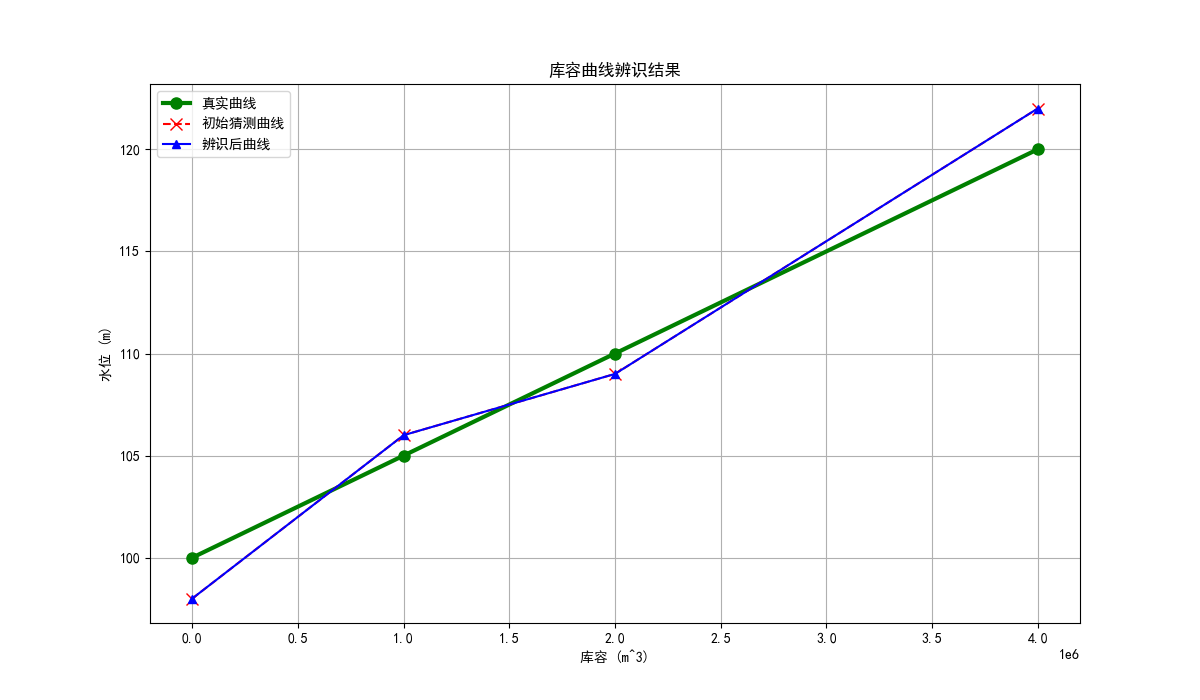
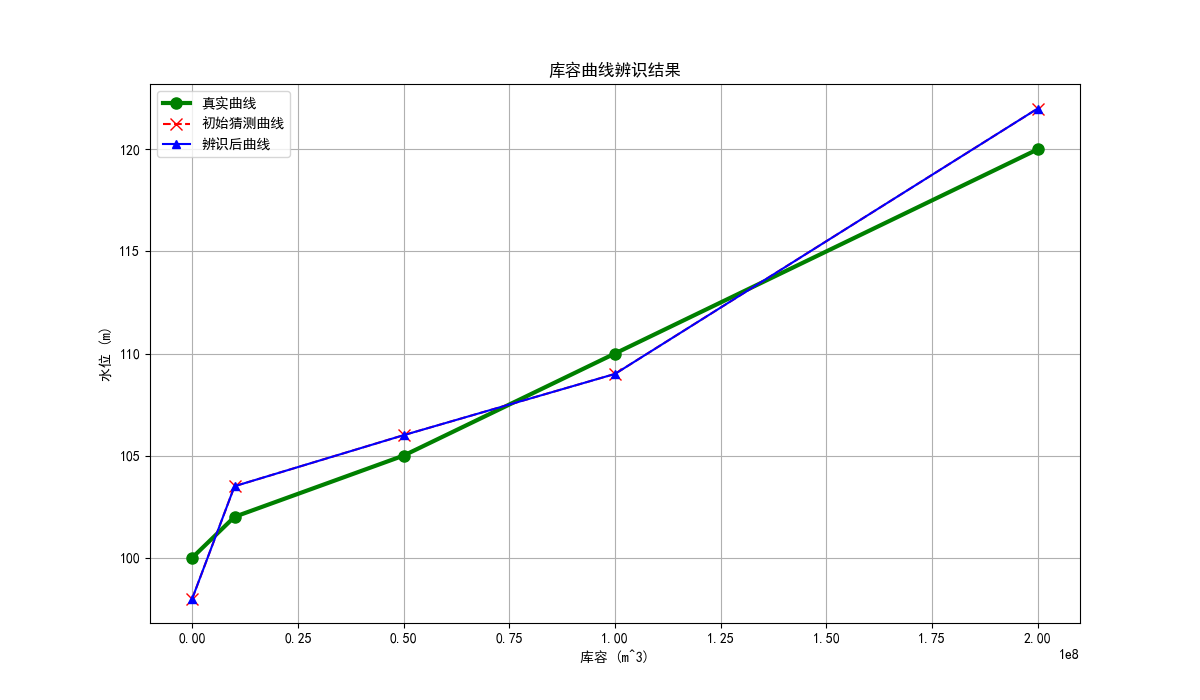
fix-参数辨识bug

diff --git a/core_lib/core_engine/testing/simulation_harness.py b/core_lib/core_engine/testing/simulation_harness.py
@@ -139,6 +139,50 @@ class SimulationHarness:
         self.is_running = True
         print("Simulation harness build complete and ready to run.")
 
+    def _get_reference_head(self, component_id: str, direction: str) -> float:
+        """
+        为未连接的组件查找合理的参考head值。
+        通用解决方案：查找同类型已连接组件的head值作为参考。
+        
+        Args:
+            component_id: 组件ID
+            direction: 'upstream' 或 'downstream'
+            
+        Returns:
+            参考head值
+        """
+        component = self.components[component_id]
+        component_type = component.__class__.__name__
+        
+        # 查找同类型的已连接组件作为参考
+        for other_id, other_component in self.components.items():
+            if (other_component.__class__.__name__ == component_type and 
+                other_id != component_id):
+                
+                if direction == 'upstream':
+                    # 查找有上游连接的同类型组件
+                    if self.inverse_topology.get(other_id):
+                        up_id = self.inverse_topology[other_id][self.FIRST_COMPONENT_INDEX]
+                        up_state = self.components[up_id].get_state()
+                        if up_state and 'water_level' in up_state:
+                            return up_state['water_level']
+                elif direction == 'downstream':
+                    # 查找有下游连接的同类型组件
+                    if self.topology.get(other_id):
+                        down_id = self.topology[other_id][self.FIRST_COMPONENT_INDEX]
+                        down_state = self.components[down_id].get_state()
+                        if down_state and 'water_level' in down_state:
+                            return down_state['water_level']
+        
+        # 如果找不到同类型参考，查找任意有water_level的组件
+        for other_id, other_component in self.components.items():
+            state = other_component.get_state()
+            if state and 'water_level' in state:
+                return state['water_level']
+        
+        # 最后备选：返回默认值
+        return self.DEFAULT_WATER_LEVEL
+
     def pause(self):
         """Pauses the simulation."""
         self._is_paused.set()
@@ -315,6 +359,7 @@ class SimulationHarness:
             # 否则，边界组件（如上游水库）保持其原有入流设置
 
             # 为所有组件设置water head信息（无论是否stateful）
+            # 通用处理：确保所有需要head信息的组件都能获得合理的值
             if self.inverse_topology.get(component_id):
                 up_id = self.inverse_topology[component_id][self.FIRST_COMPONENT_INDEX]
                 up_state = self.components[up_id].get_state()
@@ -326,12 +371,12 @@ class SimulationHarness:
                     up_up_id = self.inverse_topology[up_id][self.FIRST_COMPONENT_INDEX]
                     up_up_state = self.components[up_up_id].get_state()
                     action['upstream_head'] = up_up_state.get('water_level', self.DEFAULT_WATER_LEVEL) if up_up_state else self.DEFAULT_WATER_LEVEL
-                    if component_id == 'Gate_1':  # 调试信息
-                        print(f"Gate_1上游查找: {up_id}(无water_level) -> {up_up_id}(water_level={action['upstream_head']:.3f}m)")
                 else:
                     action['upstream_head'] = self.DEFAULT_WATER_LEVEL
-                    if component_id == 'Gate_1':  # 调试信息
-                        print(f"Gate_1上游查找: {up_id}(无water_level，且无上级) -> 使用默认值{self.DEFAULT_WATER_LEVEL}m")
+            else:
+                # 通用解决方案：为未连接的组件查找同类型的连接组件作为参考
+                action['upstream_head'] = self._get_reference_head(component_id, 'upstream')
+                
             if self.topology.get(component_id):
                 down_id = self.topology[component_id][self.FIRST_COMPONENT_INDEX]
                 down_state = self.components[down_id].get_state()
@@ -343,12 +388,11 @@ class SimulationHarness:
                     down_down_id = self.topology[down_id][self.FIRST_COMPONENT_INDEX]
                     down_down_state = self.components[down_down_id].get_state()
                     action['downstream_head'] = down_down_state.get('water_level', self.DEFAULT_WATER_LEVEL) if down_down_state else self.DEFAULT_WATER_LEVEL
-                    if component_id == 'Pipe_1':  # 调试信息
-                        print(f"Pipe_1下游查找: {down_id}(无water_level) -> {down_down_id}(water_level={action['downstream_head']:.3f}m)")
                 else:
                     action['downstream_head'] = self.DEFAULT_WATER_LEVEL
-                    if component_id == 'Pipe_1':  # 调试信息
-                        print(f"Pipe_1下游查找: {down_id}(无water_level，且无下级) -> 使用默认值{self.DEFAULT_WATER_LEVEL}m")
+            else:
+                # 通用解决方案：为未连接的组件查找同类型的连接组件作为参考
+                action['downstream_head'] = self._get_reference_head(component_id, 'downstream')
 
             # 修复：选择性启用stateful组件处理
             # 仅对边界组件（如上游水库）启用，以避免中间组件的反馈循环

diff --git a/core_lib/physical_objects/reservoir.py b/core_lib/physical_objects/reservoir.py
@@ -323,7 +323,7 @@ class Reservoir(PhysicalObjectInterface):
     def is_stateful(self) -> bool:
         return True
 
-    def identify_parameters(self, data: Dict[str, np.ndarray], method: str = 'offline') -> Parameters:
+    def identify_parameters(self, data: Dict[str, np.ndarray], method: str = 'offline', time_step: Optional[float] = None) -> Parameters:
         """
         使用历史数据辨识库容曲线参数。
 
@@ -332,7 +332,9 @@ class Reservoir(PhysicalObjectInterface):
                   - 'inflows': 总入流的时间序列数据。
                   - 'outflows': 总出流的时间序列数据。
                   - 'levels': 观测水位的时间序列数据。
+                  - 'time_step' (可选): 数据时间步长，单位为秒。
             method: 辨识方法（目前仅支持 'offline'）。
+            time_step: 数据时间步长（秒），如果为None，将尝试从data中获取或使用默认值。
 
         Returns:
             一个包含新辨识出的 'storage_curve' 的字典。
@@ -347,9 +349,21 @@ class Reservoir(PhysicalObjectInterface):
         outflows = data['outflows']
         observed_levels = data['levels']
 
-        # 假设time_step是恒定的，从数据点数量推断（例如，一天的数据）。
-        # 理想情况下，这个值应该由数据提供。这里我们假设步长是每小时。
-        time_step = 3600 # 秒
+        # 获取时间步长：优先级顺序为 time_step参数 > data字典中的time_step > 默认值
+        if time_step is not None:
+            dt = time_step
+        elif 'time_step' in data:
+            dt = float(data['time_step'])
+        else:
+            # 默认值：根据数据特征推断
+            # 如果数据点少于100个，假设为小时级数据；否则假设为分钟级数据
+            data_length = len(inflows)
+            if data_length < 100:
+                dt = 3600.0  # 1小时（秒）
+                print(f"警告: 未提供时间步长，根据数据长度 {data_length} 推断为小时级数据，使用 {dt} 秒")
+            else:
+                dt = 60.0    # 1分钟（秒）
+                print(f"警告: 未提供时间步长，根据数据长度 {data_length} 推断为分钟级数据，使用 {dt} 秒")
 
         def _simulation_error(level_params: np.ndarray) -> float:
             """优化器的目标函数。"""
@@ -367,7 +381,7 @@ class Reservoir(PhysicalObjectInterface):
             simulated_volumes[0] = initial_volume
 
             for i in range(1, len(inflows)):
-                delta_v = (inflows[i-1] - outflows[i-1]) * time_step
+                delta_v = (inflows[i-1] - outflows[i-1]) * dt
                 simulated_volumes[i] = simulated_volumes[i-1] + delta_v
 
             # 使用候选曲线将模拟库容转换为水位

diff --git a/core_lib/identification/identification_agent.py b/core_lib/identification/identification_agent.py
@@ -24,6 +24,7 @@ class ParameterIdentificationAgent(Agent):
                 - identification_data_map: 一个字典，将模型的 identify_parameters 方法所需的
                                            键（例如 'rainfall', 'observed_runoff'）映射到
                                            它们对应的主题。
+                - simulation_time_step: 仿真时间步长（秒），用于传递给辨识算法。
         """
         super().__init__(agent_id)
         self.target_model = target_model
@@ -32,6 +33,7 @@ class ParameterIdentificationAgent(Agent):
         # 配置
         self.id_interval = kwargs.get("identification_interval", 100)
         self.data_map = kwargs["identification_data_map"]
+        self.simulation_time_step = kwargs.get("simulation_time_step", None)  # 仿真时间步长
 
         # 内部状态
         self.data_history: Dict[str, List[float]] = {key: [] for key in self.data_map.keys()}
@@ -55,6 +57,8 @@ class ParameterIdentificationAgent(Agent):
             # 仅对一个数据流递增计数器，以确保同步
             if model_key == list(self.data_map.keys())[0]:
                 self.new_data_count += 1
+            # 添加调试信息，显示数据收集情况
+            print(f"  [{self.agent_id}] 收集数据: {model_key}={value:.3f}, 总数据点数: {self.new_data_count}")
 
     def run(self, current_time: float):
         """
@@ -76,8 +80,22 @@ class ParameterIdentificationAgent(Agent):
             # 将所有数据流截断到最小长度
             data_for_model = {key: np.array(values[:min_len]) for key, values in self.data_history.items()}
 
+            # 准备传递给辨识算法的数据，包括时间步长信息
+            # 如果有配置的时间步长，则添加到数据中
+            if self.simulation_time_step is not None:
+                data_for_model['time_step'] = self.simulation_time_step
+
             # 触发辨识并获取结果
-            new_params = self.target_model.identify_parameters(data_for_model)
+            # 传递时间步长参数（如果可用）
+            if hasattr(self.target_model, 'identify_parameters'):
+                import inspect
+                sig = inspect.signature(self.target_model.identify_parameters)
+                if 'time_step' in sig.parameters:
+                    new_params = self.target_model.identify_parameters(data_for_model, time_step=self.simulation_time_step)
+                else:
+                    new_params = self.target_model.identify_parameters(data_for_model)
+            else:
+                new_params = self.target_model.identify_parameters(data_for_model)
 
             # 发布新参数以供 ModelUpdaterAgent 使用
             if new_params:

diff --git a/examples/identification/01_reservoir_storage_curve/run_identification.py b/examples/identification/01_reservoir_storage_curve/run_identification.py
@@ -3,7 +3,8 @@ from pathlib import Path
 import yaml
 import numpy as np
 
-# 将项目根目录添加到Python路径，以允许从core_lib导入
+# 使用标准导入机制（需要根据项目结构配置PYTHONPATH或使用setuptools开发模式）
+# TODO: 替换为标准包导入方式，避免手动路径操作
 project_root = Path(__file__).resolve().parents[3]
 sys.path.insert(0, str(project_root))
 
@@ -70,11 +71,11 @@ def main():
     scenario_path = Path(__file__).parent
 
     # --- 1. 从YAML文件加载配置 ---
-    with open(scenario_path / 'config.yml', 'r') as f:
+    with open(scenario_path / 'config.yml', 'r', encoding='utf-8') as f:
         config = yaml.safe_load(f)
-    with open(scenario_path / 'components.yml', 'r') as f:
+    with open(scenario_path / 'components.yml', 'r', encoding='utf-8') as f:
         components_config = yaml.safe_load(f)
-    with open(scenario_path / 'agents.yml', 'r') as f:
+    with open(scenario_path / 'agents.yml', 'r', encoding='utf-8') as f:
         agents_config = yaml.safe_load(f)
 
     # --- 2. 手动实例化所有对象 ---
@@ -130,6 +131,10 @@ def main():
     id_agent_conf = agents_config['identification_agent']['parameters'].copy()
     # Remove target_model from config since we pass it explicitly
     id_agent_conf.pop('target_model', None)
+    # 从仿真配置中获取时间步长，确保一致性
+    simulation_time_step = config['simulation'].get('time_step', 3600)
+    id_agent_conf['simulation_time_step'] = simulation_time_step
+    
     identification_agent = ParameterIdentificationAgent(
         agent_id='identification_agent',
         target_model=twin_reservoir,
@@ -154,7 +159,7 @@ def main():
     # --- 4. 初始化并运行仿真平台 ---
     print("\n正在初始化仿真平台...")
     harness = SimulationHarness(config=config['simulation'])
-    harness.message_bus = bus # 确保所有对象共享同一个消息总线
+    harness.message_bus = bus  # 确保所有对象共享同一个消息总线
 
     # 向仿真平台添加组件和智能体
     for comp in components:

diff --git a/core_lib/physical_objects/gate.py b/core_lib/physical_objects/gate.py
@@ -247,6 +247,21 @@ class Gate(PhysicalObjectInterface):
         openings = data['openings']
         obs_flows = data['observed_flows']
 
+        # 验证输入数据的有效性
+        valid_indices = (up_levels > down_levels) & (openings > 0) & (obs_flows >= 0)
+        if not np.any(valid_indices):
+            print(f"警告: 闸门 '{self.name}' 没有有效的辨识数据点（需要上游水位>下游水位且开度>0）。")
+            return {}
+
+        # 使用有效数据点
+        up_levels = up_levels[valid_indices]
+        down_levels = down_levels[valid_indices]
+        openings = openings[valid_indices]
+        obs_flows = obs_flows[valid_indices]
+
+        if len(up_levels) < 5:
+            print(f"警告: 闸门 '{self.name}' 有效数据点太少 ({len(up_levels)} < 5)，可能影响辨识精度。")
+
         def _simulation_error(c_param: np.ndarray) -> float:
             """优化器的目标函数。"""
             C = c_param[0]
@@ -263,11 +278,14 @@ class Gate(PhysicalObjectInterface):
             return rmse
 
         initial_guess = np.array([self._params.get('discharge_coefficient', self.default_discharge_coefficient)])
+        
+        # 使用支持边界约束的优化器
         result = minimize(
             _simulation_error,
             initial_guess,
-            method='Nelder-Mead', # 适用于简单的单变量优化
-            bounds=[(self.identification_bounds_min, self.identification_bounds_max)] # 更合理的C值物理边界：收缩系数0.61×流速系数0.98≈0.6
+            method='L-BFGS-B',  # 支持边界约束的优化器
+            bounds=[(self.identification_bounds_min, self.identification_bounds_max)],  # 物理合理的流量系数范围
+            options={'maxiter': 1000, 'ftol': 1e-9}  # 增加最大迭代次数和精度
         )
 
         if result.success:

diff --git a/examples/identification/02_gate_discharge_coefficient/run_identification.py b/examples/identification/02_gate_discharge_coefficient/run_identification.py
@@ -3,7 +3,8 @@ from pathlib import Path
 import yaml
 import numpy as np
 
-# 将项目根目录添加到Python路径
+# 使用标准导入机制（需要根据项目结构配置PYTHONPATH或使用setuptools开发模式）
+# TODO: 替换为标准包导入方式，避免手动路径操作
 project_root = Path(__file__).resolve().parents[3]
 sys.path.insert(0, str(project_root))
 
@@ -25,13 +26,13 @@ def main():
     scenario_path = Path(__file__).parent
 
     # --- 1. 从YAML文件加载配置 ---
-    with open(scenario_path / 'config.yml', 'r') as f:
+    with open(scenario_path / 'config.yml', 'r', encoding='utf-8') as f:
         config = yaml.safe_load(f)
-    with open(scenario_path / 'components.yml', 'r') as f:
+    with open(scenario_path / 'components.yml', 'r', encoding='utf-8') as f:
         components_config = yaml.safe_load(f)
-    with open(scenario_path / 'agents.yml', 'r') as f:
+    with open(scenario_path / 'agents.yml', 'r', encoding='utf-8') as f:
         agents_config = yaml.safe_load(f)
-    with open(scenario_path / 'topology.yml', 'r') as f:
+    with open(scenario_path / 'topology.yml', 'r', encoding='utf-8') as f:
         topology_config = yaml.safe_load(f)
 
     # --- 2. 手动实例化所有对象 ---
@@ -78,6 +79,10 @@ def main():
     id_agent_conf = agents_config['identification_agent']['parameters'].copy()
     # Remove target_model from config since we pass it explicitly
     id_agent_conf.pop('target_model', None)
+    # 从仿真配置中获取时间步长，确保一致性
+    simulation_time_step = config['simulation'].get('time_step', 100)
+    id_agent_conf['simulation_time_step'] = simulation_time_step
+    
     agents.append(ParameterIdentificationAgent(
         agent_id='identification_agent',
         target_model=twin_gate,

diff --git a/examples/identification/03_pipe_roughness/run_identification.py b/examples/identification/03_pipe_roughness/run_identification.py
@@ -3,7 +3,8 @@ from pathlib import Path
 import yaml
 import numpy as np
 
-# 将项目根目录添加到Python路径
+# 使用标准导入机制（需要根据项目结构配置PYTHONPATH或使用setuptools开发模式）
+# TODO: 替换为标准包导入方式，避免手动路径操作
 project_root = Path(__file__).resolve().parents[3]
 sys.path.insert(0, str(project_root))
 
@@ -25,13 +26,13 @@ def main():
     scenario_path = Path(__file__).parent
 
     # --- 1. 从YAML文件加载配置 ---
-    with open(scenario_path / 'config.yml', 'r') as f:
+    with open(scenario_path / 'config.yml', 'r', encoding='utf-8') as f:
         config = yaml.safe_load(f)
-    with open(scenario_path / 'components.yml', 'r') as f:
+    with open(scenario_path / 'components.yml', 'r', encoding='utf-8') as f:
         components_config = yaml.safe_load(f)
-    with open(scenario_path / 'agents.yml', 'r') as f:
+    with open(scenario_path / 'agents.yml', 'r', encoding='utf-8') as f:
         agents_config = yaml.safe_load(f)
-    with open(scenario_path / 'topology.yml', 'r') as f:
+    with open(scenario_path / 'topology.yml', 'r', encoding='utf-8') as f:
         topology_config = yaml.safe_load(f)
 
     # --- 2. 手动实例化所有对象 ---
@@ -77,6 +78,10 @@ def main():
     id_agent_conf = agents_config['identification_agent']['parameters'].copy()
     # Remove target_model from config since we pass it explicitly
     id_agent_conf.pop('target_model', None)
+    # 从仿真配置中获取时间步长，确保一致性
+    simulation_time_step = config['simulation'].get('time_step', 100)
+    id_agent_conf['simulation_time_step'] = simulation_time_step
+    
     agents.append(ParameterIdentificationAgent(
         agent_id='identification_agent',
         target_model=twin_pipe,

diff --git a/core_lib/physical_objects/pipe.py b/core_lib/physical_objects/pipe.py
@@ -202,6 +202,19 @@ class Pipe(PhysicalObjectInterface):
         obs_flows = data['observed_flows']
         head_diffs = up_levels - down_levels
 
+        # 验证输入数据的有效性
+        valid_indices = (head_diffs > 0) & (obs_flows >= 0)
+        if not np.any(valid_indices):
+            print(f"警告: 管道 '{self.name}' 没有有效的辨识数据点（需要水头差>0且流量>=0）。")
+            return {}
+
+        # 使用有效数据点
+        head_diffs = head_diffs[valid_indices]
+        obs_flows = obs_flows[valid_indices]
+
+        if len(head_diffs) < 5:
+            print(f"警告: 管道 '{self.name}' 有效数据点太少 ({len(head_diffs)} < 5)，可能影响辨识精度。")
+
         if self.method == 'manning':
             param_key = 'manning_n'
             calc_func = self._calculate_flow_manning
@@ -223,8 +236,9 @@ class Pipe(PhysicalObjectInterface):
         result = minimize(
             _simulation_error,
             np.array([initial_guess]),
-            method='L-BFGS-B', # 该方法支持边界
-            bounds=bounds
+            method='L-BFGS-B',  # 该方法支持边界
+            bounds=bounds,
+            options={'maxiter': 1000, 'ftol': 1e-12}  # 增加最大迭代次数和精度
         )
 
         if result.success:
